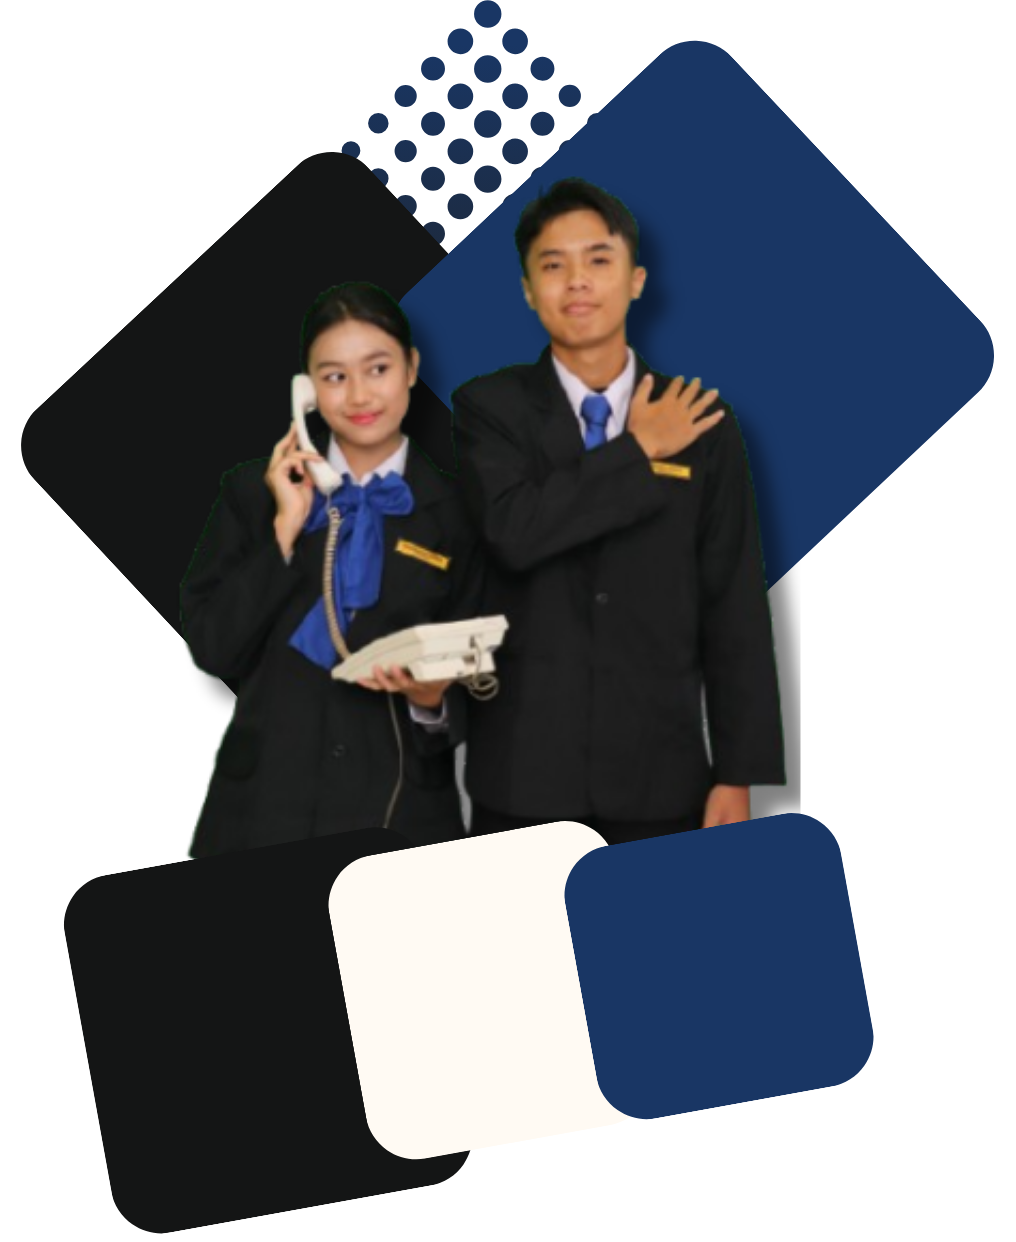
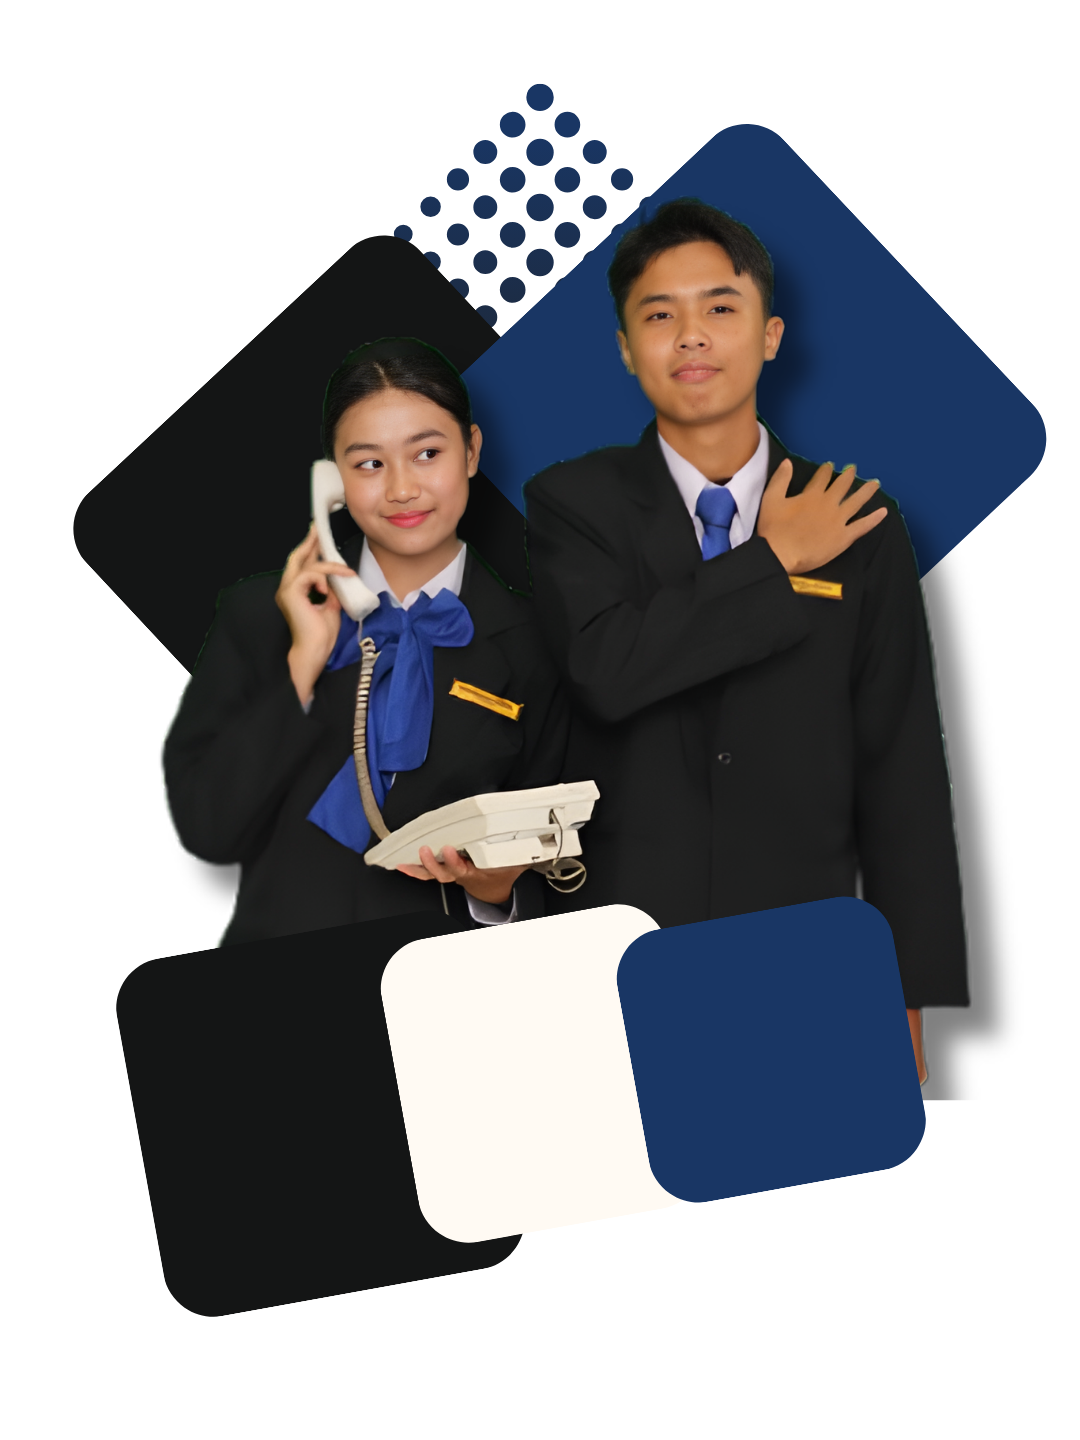
feat: replace image placeholders with assets and update hero section layouts across modules

diff --git a/src/modules/ppdb/components/PpdbHero.tsx b/src/modules/ppdb/components/PpdbHero.tsx
@@ -1,5 +1,6 @@
 import { ArrowRight, Download, Calendar, MessageCircle } from "lucide-react";
 import { motion } from "motion/react";
+import ppdbHeroImg from "../../../assets/ppdb-assets/hero-img.png";
 
 const EASE = [0.16, 1, 0.3, 1] as const;
 
@@ -121,23 +122,12 @@ function PpdbHero() {
             animate={{ opacity: 1, y: 0, scale: 1 }}
             transition={{ duration: 0.8, delay: 0.4, ease: EASE }}
           >
-            <div className="ppdb-hero-photo-placeholder">
-              <svg
-                width="48"
-                height="48"
-                viewBox="0 0 24 24"
-                fill="none"
-                stroke="currentColor"
-                strokeWidth="1.5"
-                strokeLinecap="round"
-                strokeLinejoin="round"
-              >
-                <rect x="3" y="3" width="18" height="18" rx="2" ry="2" />
-                <circle cx="8.5" cy="8.5" r="1.5" />
-                <polyline points="21 15 16 10 5 21" />
-              </svg>
-              <span>Foto Sekolah</span>
-            </div>
+            <img
+              src={ppdbHeroImg}
+              alt="Foto Sekolah"
+              loading="lazy"
+              className="ppdb-hero-photo"
+            />
           </motion.div>
 
           <motion.div

diff --git a/src/modules/fasilitas/fasilitas.tsx b/src/modules/fasilitas/fasilitas.tsx
@@ -1,9 +1,9 @@
 import { useState } from "react";
-import { Building2, ArrowLeft, ArrowRight } from "lucide-react";
+import { ArrowLeft, ArrowRight } from "lucide-react";
 import Breadcrumb from "../../components/breadcrumb/breadcrumb";
 import "./css/fasilitas.css";
 import fasilitasData from "./fasilitas.json";
-import heroImage from "../../assets/hero.png";
+import heroImage from "../../assets/fasilitas-assets/umum/hero-img.png";
 
 interface FasilitasItem {
   id: number;
@@ -75,10 +75,15 @@ function Fasilitas() {
           </div>
 
           <div className="fasilitas-header-visual reveal reveal-delay-2">
-            <div className="fasilitas-photo-placeholder">
-              <Building2 className="fasilitas-photo-icon" />
-              <span className="fasilitas-photo-label">Foto Sarana &amp; Prasarana</span>
-            </div>
+            <img
+              src={heroImage}
+              alt="Foto Sarana &amp; Prasarana"
+              loading="lazy"
+              onError={(event) => {
+                event.currentTarget.style.display = "none";
+              }}
+              className="fasilitas-header-photo"
+            />
           </div>
         </div>
 

diff --git a/src/modules/fasilitas/css/fasilitas.css b/src/modules/fasilitas/css/fasilitas.css
@@ -94,35 +94,11 @@
   width: 420px;
 }
 
-.fasilitas-photo-placeholder {
+.fasilitas-header-photo {
   width: 100%;
   aspect-ratio: 4 / 3;
   border-radius: 20px;
-  background: rgba(255, 255, 255, 0.05);
-  border: 2px dashed rgba(255, 255, 255, 0.15);
-  display: flex;
-  flex-direction: column;
-  align-items: center;
-  justify-content: center;
-  gap: 16px;
-  transition: border-color 0.3s;
-}
-
-.fasilitas-photo-placeholder:hover {
-  border-color: rgba(37, 99, 235, 0.4);
-}
-
-.fasilitas-photo-icon {
-  width: 48px;
-  height: 48px;
-  color: rgba(255, 255, 255, 0.2);
-}
-
-.fasilitas-photo-label {
-  font-family: var(--font-body);
-  font-size: 0.85rem;
-  color: rgba(255, 255, 255, 0.3);
-  letter-spacing: 0.03em;
+  object-fit: cover;
 }
 
 .fasilitas-header-stats {

diff --git a/src/modules/jurusan/css/jurusan.css b/src/modules/jurusan/css/jurusan.css
@@ -199,12 +199,13 @@
   display: flex;
   justify-content: center;
   align-items: center;
-  height: 400px;
+  height: 500px;
+  width: 650px;
 }
 
 .jurusan-hero-image-wrap {
   width: 100%;
-  max-width: 440px;
+  max-width: 650px;
   height: 100%;
   position: relative;
 }
@@ -1046,7 +1047,7 @@
   }
 
   .jurusan-hero-image-wrap {
-max-width: 380px;
+    max-width: 420px;
   }
 }
 
@@ -1090,12 +1091,12 @@ max-width: 380px;
   }
 
   .jurusan-hero-visual {
-    height: 320px;
+    height: 340px;
     padding: 32px 0 0;
   }
 
   .jurusan-hero-image-wrap {
-    max-width: 260px;
+    max-width: 280px;
   }
 
   .jurusan-hero-controls {

diff --git a/src/modules/ppdb/css/ppdb.css b/src/modules/ppdb/css/ppdb.css
@@ -294,23 +294,11 @@
   pointer-events: none;
 }
 
-.ppdb-hero-photo-placeholder {
+.ppdb-hero-photo {
   width: 100%;
   height: 100%;
-  background: linear-gradient(135deg, #2D4A6F 0%, #1E3A5F 50%, #163228 100%);
-  display: flex;
-  flex-direction: column;
-  align-items: center;
-  justify-content: center;
-  gap: 12px;
-  color: rgba(255,255,255,0.3);
-}
-
-.ppdb-hero-photo-placeholder span {
-  font-family: var(--font-body);
-  font-size: 0.75rem;
-  letter-spacing: 0.05em;
-  text-transform: uppercase;
+  object-fit: cover;
+  display: block;
 }
 
 @keyframes ppdb-photo-float {
